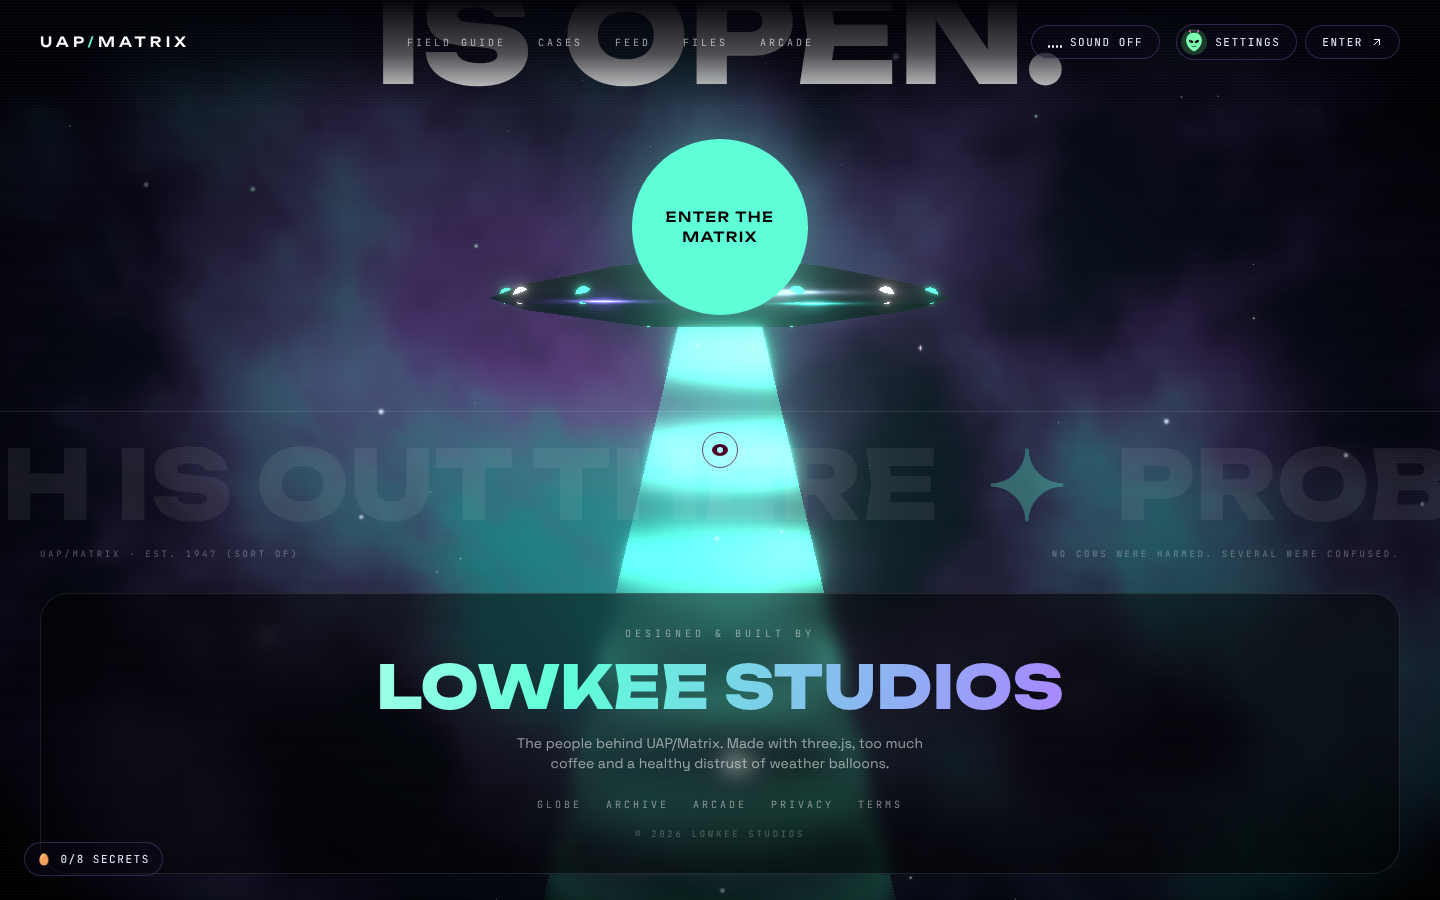
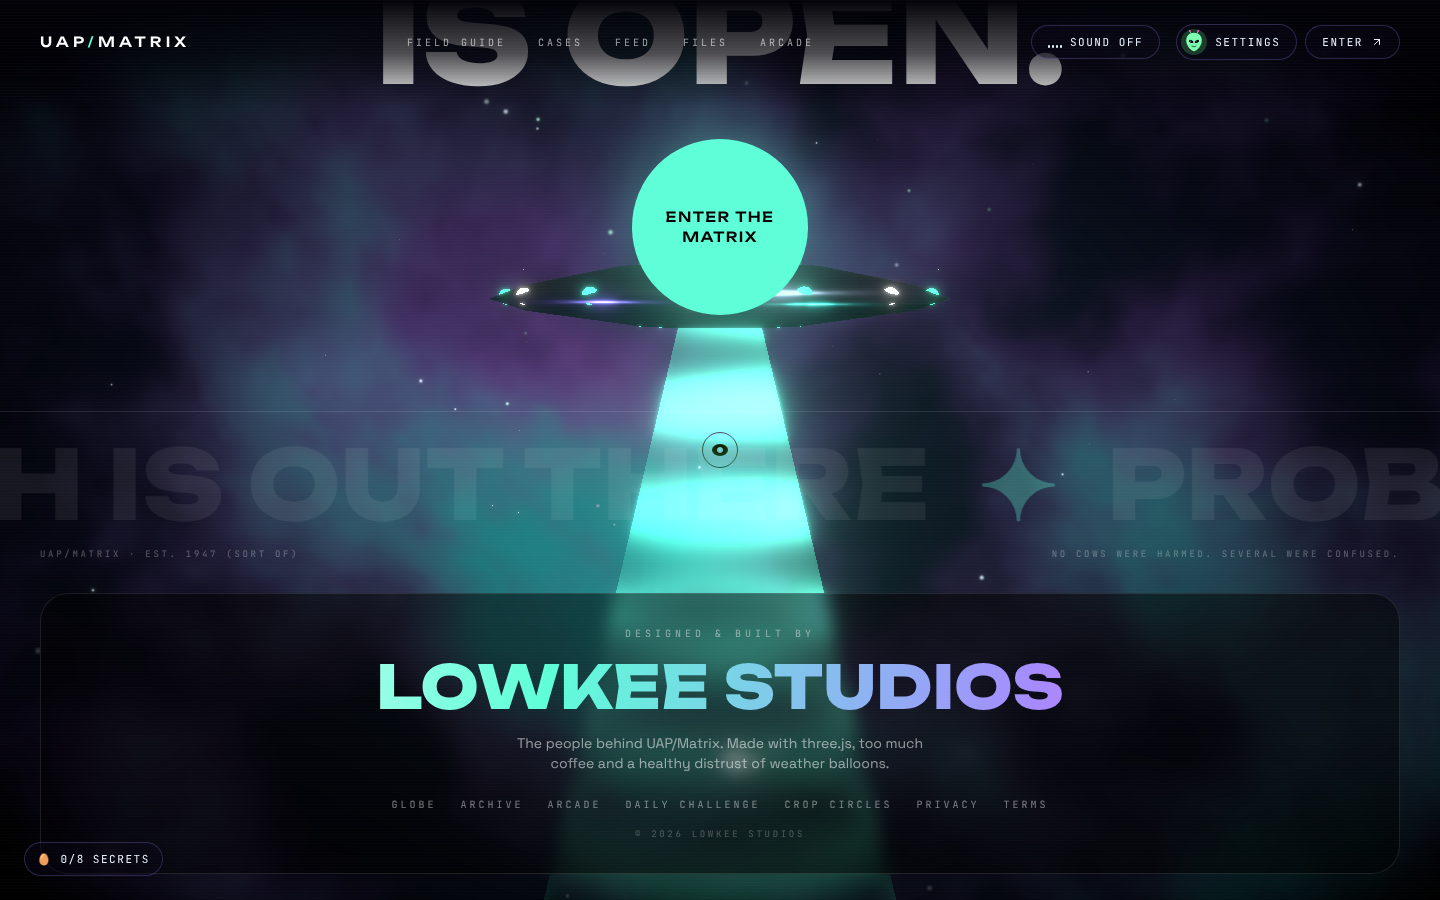
Smoother scrolling (#27)
* Mobile polish: native reel swipe on phones, roomier headings, no section numbers, light-mode accents, remove em dashes

Claude-Session: https://claude.ai/code/session_0152vu3G974UqBKP361K9CxQ

* Fit reel years inside cards with container query sizing

Claude-Session: https://claude.ai/code/session_0152vu3G974UqBKP361K9CxQ

* Don't fail sign-in when the profile upsert errors

Claude-Session: https://claude.ai/code/session_0152vu3G974UqBKP361K9CxQ

* Add /api/auth-check sign-in diagnostics and persist auth errors

Claude-Session: https://claude.ai/code/session_0152vu3G974UqBKP361K9CxQ

* Trim auth credentials from env before use

Claude-Session: https://claude.ai/code/session_0152vu3G974UqBKP361K9CxQ

* Avatar picker: two tidy rows of five so it fits the card

Claude-Session: https://claude.ai/code/session_0152vu3G974UqBKP361K9CxQ

* Remove temporary sign-in diagnostics

Claude-Session: https://claude.ai/code/session_0152vu3G974UqBKP361K9CxQ

* Add privacy policy and terms pages for Google OAuth publishing

Claude-Session: https://claude.ai/code/session_0152vu3G974UqBKP361K9CxQ

* Add UAP/Matrix brand logo set (mark, wordmark, PNG sizes)

Claude-Session: https://claude.ai/code/session_0152vu3G974UqBKP361K9CxQ

* Add Google Search Console site verification

Claude-Session: https://claude.ai/code/session_0152vu3G974UqBKP361K9CxQ

* Voxel lineup of witness-reported beings + easter egg hunt with hints

- Zorp section becomes a switchable lineup: The Grey, Flatwoods Monster,
[…]

diff --git a/src/components/fx/SmoothScroll.tsx b/src/components/fx/SmoothScroll.tsx
@@ -1,27 +1,38 @@
 'use client';
 
 /**
- * Lenis inertial scrolling for document-scrolling pages (feed, case files).
- * Skipped on the full-viewport globe console (/matrix), which never scrolls the document.
+ * Lenis inertial scrolling for document-scrolling pages.
+ * Driven by GSAP's ticker and wired into ScrollTrigger so pinned sections and
+ * scroll-linked animations move in lockstep with the smoothed scroll (no
+ * jumps). Wheel input is softened a little; touch keeps native momentum.
+ * Skipped on the full-viewport globe console (/matrix).
  */
 import { useEffect } from 'react';
 import { usePathname } from 'next/navigation';
 import Lenis from 'lenis';
+import gsap from 'gsap';
+import { ScrollTrigger } from 'gsap/ScrollTrigger';
+
+gsap.registerPlugin(ScrollTrigger);
 
 export default function SmoothScroll() {
   const pathname = usePathname();
   useEffect(() => {
     if (pathname === '/matrix') return;
     if (window.matchMedia('(prefers-reduced-motion: reduce)').matches) return;
-    const lenis = new Lenis({ lerp: 0.09 });
-    let raf = 0;
-    const loop = (t: number) => {
-      lenis.raf(t);
-      raf = requestAnimationFrame(loop);
-    };
-    raf = requestAnimationFrame(loop);
+    const lenis = new Lenis({
+      lerp: 0.065, // lower = glidier
+      wheelMultiplier: 0.75, // each wheel notch travels less
+      touchMultiplier: 1,
+      smoothWheel: true,
+      anchors: { offset: -80 }, // in-page links (#crop-lab etc.) glide too
+    });
+    lenis.on('scroll', ScrollTrigger.update);
+    const tick = (time: number) => lenis.raf(time * 1000);
+    gsap.ticker.add(tick);
+    gsap.ticker.lagSmoothing(0);
     return () => {
-      cancelAnimationFrame(raf);
+      gsap.ticker.remove(tick);
       lenis.destroy();
     };
   }, [pathname]);
